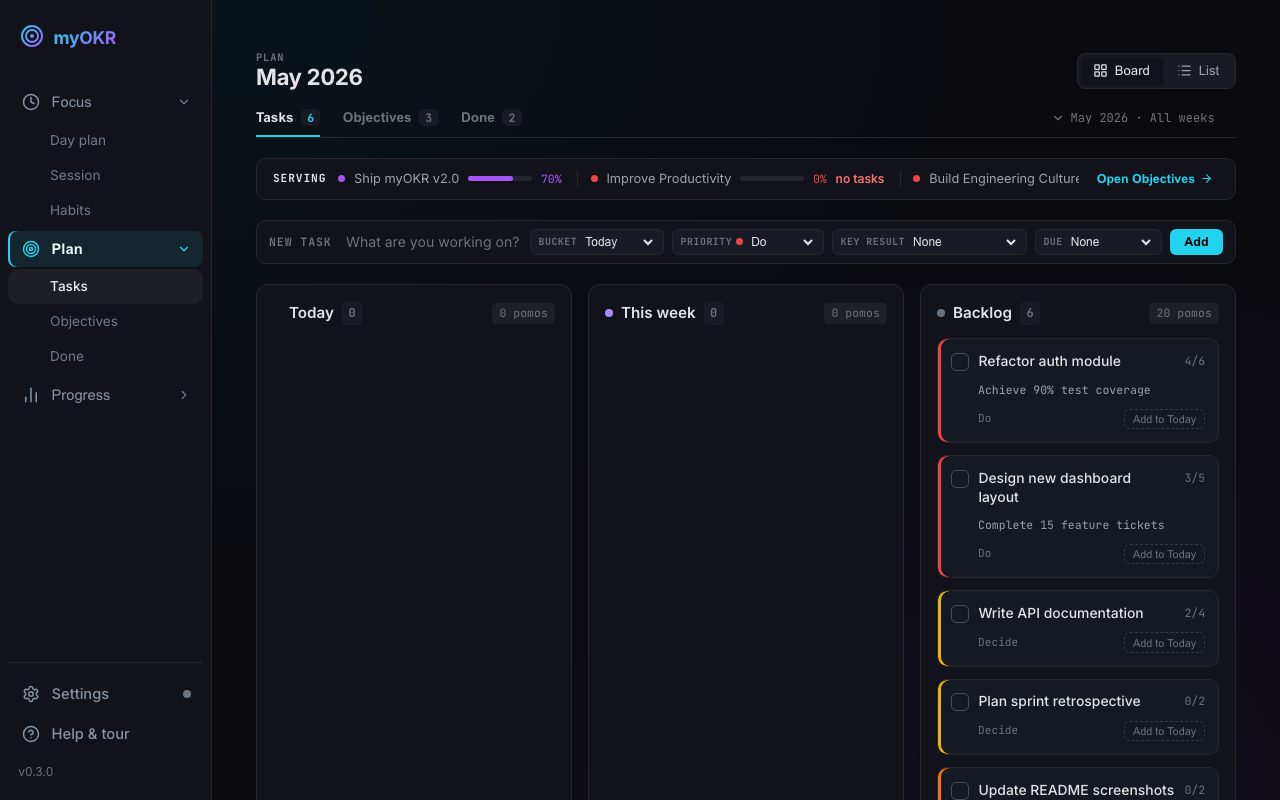
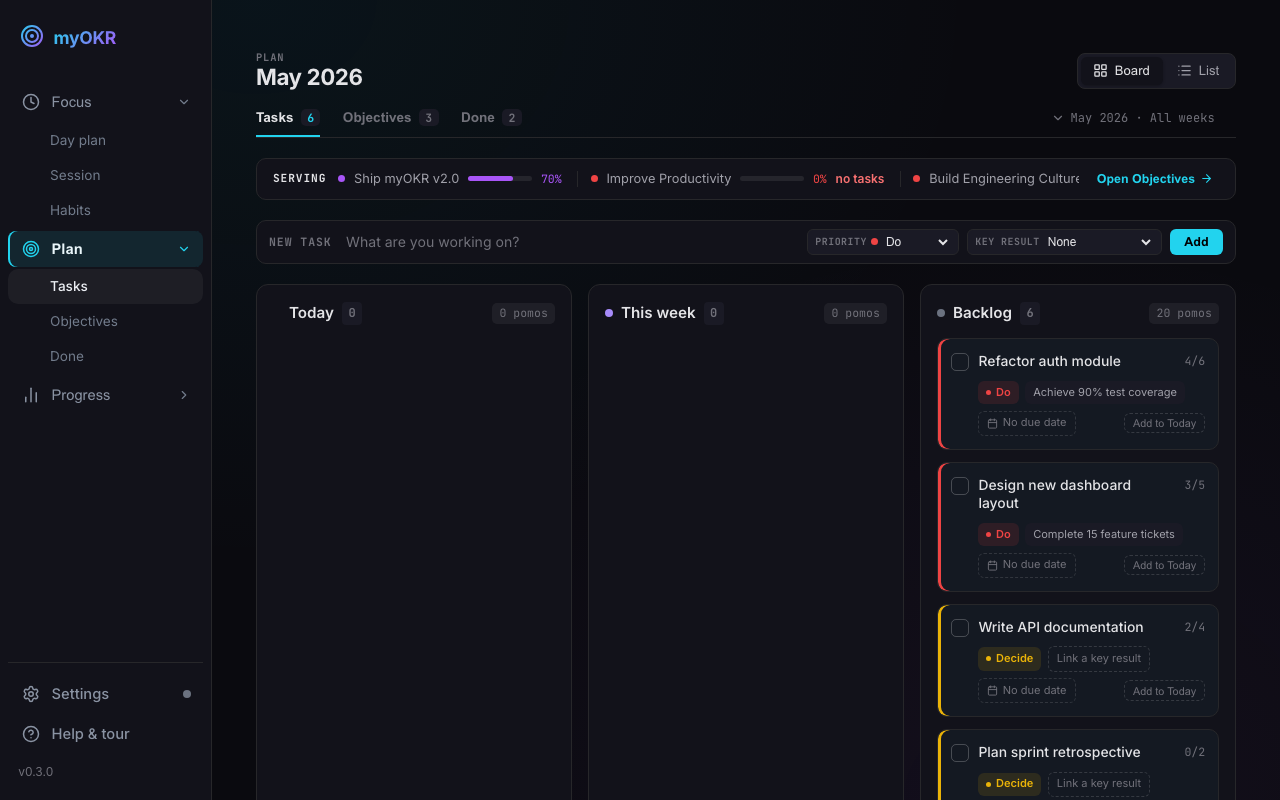
fix padding and task style

diff --git a/tests/plan-group-board-bugs.spec.ts b/tests/plan-group-board-bugs.spec.ts
@@ -1,0 +1,120 @@
+import { test, expect } from '@playwright/test';
+
+const FIXED = '2026-05-24T12:00:00.000Z';
+
+// Board-level UI bugs found while shooting the Tasks (P1) screen against the
+// redesign mockup. Each test is a tracer bullet for one bug; see the matching
+// slice in src/components/pomodoro/TasksView.tsx + src/styles/pomodoro.css.
+test.describe('Plan Group Board — bug fixes', () => {
+  test.beforeEach(async ({ page }) => {
+    await page.clock.setFixedTime(new Date(FIXED));
+    await page.addInitScript(() => {
+      window.localStorage.setItem('myokr_walkthrough_state', '"seen"');
+    });
+    await page.goto('/');
+    await page.waitForLoadState('networkidle');
+    await page.locator('button[title="Plan"]').click();
+  });
+
+  // Bug 1: the quick-add row was cramped by FOUR dropdowns (Bucket, Priority,
+  // Key Result, Due), squeezing the title input. The P1 spec keeps only
+  // Priority + Key Result in the row ("no bucket select, no due date"), and new
+  // tasks land in Backlog (the storage default).
+  test('quick-add row has only Priority + Key Result, and new tasks land in Backlog', async ({ page }) => {
+    const bar = page.locator('.quick-add-bar');
+    await expect(bar).toBeVisible();
+
+    // Priority + Key Result selectors stay in the row.
+    await expect(bar.locator('.quick-add-field-label', { hasText: 'PRIORITY' })).toBeVisible();
+    await expect(bar.locator('.quick-add-field-label', { hasText: 'KEY RESULT' })).toBeVisible();
+
+    // Bucket + Due selectors are removed from the row.
+    await expect(bar.locator('.quick-add-field-label', { hasText: 'BUCKET' })).toHaveCount(0);
+    await expect(bar.locator('.quick-add-field-label', { hasText: 'DUE' })).toHaveCount(0);
+
+    // Submitting the trimmed form creates a task that lands in Backlog, not Today.
+    const input = page.locator('input[placeholder*="What are you working on?"]');
+    await input.fill('Backlog landing task');
+    await page.locator('button.quick-add-btn').click();
+
+    await expect(page.locator('.column-backlog').locator('text=Backlog landing task')).toBeVisible();
+    await expect(page.locator('.column-today').locator('text=Backlog landing task')).toHaveCount(0);
+  });
+
+  // Bug 2: a long, non-wrapping KR line inflated the Today column because the
+  // board grid used bare `1fr` tracks (= minmax(auto,1fr)) and the card had no
+  // min-width:0. With a bounded track the KR ellipsizes and all three columns
+  // share the width equally. (See docs/design-system.md minmax(0,…) callout.)
+  test('a long KR does not make its bucket column wider than the others', async ({ page }) => {
+    await page.evaluate(async () => {
+      const okr = await import('/src/lib/okr-storage.ts');
+      const pomo = await import('/src/lib/pomodoro-storage.ts');
+      const cycle = { id: 'c1', name: 'May cycle', month: 4, year: 2026, isActive: true, createdAt: '2026-05-01T00:00:00Z' };
+      const obj = { id: 'o1', cycleId: 'c1', title: 'Growth', category: 'work', createdAt: '2026-05-01T00:00:00Z' };
+      const kr = { id: 'kr-long', objectiveId: 'o1', title: 'Grow weekly active users of the flagship dashboard by shipping the redesign', targetValue: 100, currentValue: 0, unit: '%' };
+      await okr.saveCycles([cycle]);
+      await okr.saveObjectives([obj]);
+      await okr.saveKeyResults([kr]);
+      await pomo.saveTasks([
+        { id: 't-today', title: 'Ship the redesign', bucket: 'today', keyResultId: 'kr-long', estimatedPomodoros: 2, completedPomodoros: 0, isCompleted: false, createdAt: '2026-05-24T10:00:00Z' },
+        { id: 't-week', title: 'Plan retro', bucket: 'this_week', estimatedPomodoros: 1, completedPomodoros: 0, isCompleted: false, createdAt: '2026-05-24T10:00:00Z' },
+        { id: 't-back', title: 'Sketch ideas', bucket: 'backlog', estimatedPomodoros: 1, completedPomodoros: 0, isCompleted: false, createdAt: '2026-05-24T10:00:00Z' },
+      ]);
+    });
+    await page.reload();
+    await page.waitForLoadState('networkidle');
+    await page.locator('button[title="Plan"]').click();
+
+    // Precondition: the long KR line is actually rendering on the Today card.
+    await expect(page.locator('.column-today .card-kr')).toBeVisible();
+
+    const today = await page.locator('.column-today').boundingBox();
+    const week = await page.locator('.column-this-week').boundingBox();
+    const back = await page.locator('.column-backlog').boundingBox();
+
+    const widths = [today!.width, week!.width, back!.width];
+    const spread = Math.max(...widths) - Math.min(...widths);
+    // Bounded tracks are equal modulo a pixel of sub-pixel rounding.
+    expect(spread).toBeLessThanOrEqual(2);
+  });
+
+  // Bug 3: the board card didn't match the mockup. The mockup renders the meta
+  // row as pills — a filled category pill with a colored dot, a "Link a key
+  // result" pill when no KR is linked, and a calendar-icon "No due date" pill
+  // when no due is set — instead of hiding KR/due when absent.
+  test('a bare card shows category dot-pill, Link-a-key-result, and No-due-date pills', async ({ page }) => {
+    await page.evaluate(async () => {
+      const okr = await import('/src/lib/okr-storage.ts');
+      const pomo = await import('/src/lib/pomodoro-storage.ts');
+      const cycle = { id: 'c1', name: 'May cycle', month: 4, year: 2026, isActive: true, createdAt: '2026-05-01T00:00:00Z' };
+      const obj = { id: 'o1', cycleId: 'c1', title: 'Growth', category: 'work', createdAt: '2026-05-01T00:00:00Z' };
+      await okr.saveCycles([cycle]);
+      await okr.saveObjectives([obj]);
+      await pomo.saveTasks([
+        // No keyResultId, no dueDate, category 'do' — the "empty" card state.
+        { id: 't-bare', title: 'Bare card task', bucket: 'today', category: 'do', estimatedPomodoros: 1, completedPomodoros: 0, isCompleted: false, createdAt: '2026-05-24T10:00:00Z' },
+      ]);
+    });
+    await page.reload();
+    await page.waitForLoadState('networkidle');
+    await page.locator('button[title="Plan"]').click();
+
+    const card = page.locator('.board-task-card').first();
+
+    // Category renders as a filled pill with a colored dot (was plain mono text).
+    const catPill = card.locator('.card-category');
+    await expect(catPill).toBeVisible();
+    await expect(catPill.locator('text=Do')).toBeVisible();
+    await expect(catPill.locator('.card-category-dot')).toBeVisible();
+
+    // No KR → "Link a key result" pill (was previously hidden entirely).
+    await expect(card.locator('.card-kr')).toBeVisible();
+    await expect(card.locator('text=Link a key result')).toBeVisible();
+
+    // No due → "No due date" pill with a calendar icon (was previously hidden).
+    const duePill = card.locator('.card-due');
+    await expect(duePill).toBeVisible();
+    await expect(duePill.locator('text=No due date')).toBeVisible();
+    await expect(duePill.locator('svg')).toBeVisible();
+  });
+});

diff --git a/src/components/pomodoro/TasksView.tsx b/src/components/pomodoro/TasksView.tsx
@@ -1,5 +1,5 @@
 import { useState, useMemo, useRef, type CSSProperties } from 'react';
-import { LayoutGrid, List, Plus, Search, CheckCircle2, RotateCcw, ArrowRight } from 'lucide-react';
+import { LayoutGrid, List, Plus, Search, CheckCircle2, RotateCcw, ArrowRight, Calendar } from 'lucide-react';
 import type { PomodoroTask, EisenhowerCategory, TaskBucket } from '../../lib/pomodoro-storage';
 import { generateId, EISENHOWER_META, TASK_BUCKETS, computeTaskImportance, isTaskInCycle, buildKrCycleMap } from '../../lib/pomodoro-storage';
 import { getEffectiveCurrentValue, type KeyResult, type OKRCycle, type Objective } from '../../lib/okr-storage';
@@ -65,12 +65,11 @@ export default function TasksView({
   // Responsive Backlog collapse (P2): expanded panel below the bar
   const [backlogOpen, setBacklogOpen] = useState(false);
 
-  // Quick Add Form (Redesign 09.00.16.png: Bucket, Priority, KR, Due)
+  // Quick Add Form (P1: only Priority + Key Result live in the row; new tasks
+  // land in Backlog — the storage default. No bucket select, no due date.)
   const [newTitle, setNewTitle] = useState('');
-  const [newBucket, setNewBucket] = useState<TaskBucket>('today');
   const [newCategory, setNewCategory] = useState<EisenhowerCategory>('do');
   const [newKrId, setNewKrId] = useState<string>('');
-  const [newDue, setNewDue] = useState<'none' | 'today' | 'tomorrow' | 'end_of_week'>('none');
   const quickAddRef = useRef<HTMLDivElement>(null);
 
   // Week filter state ('all' or week number)
@@ -161,29 +160,14 @@ export default function TasksView({
     e.preventDefault();
     if (!newTitle.trim()) return;
 
-    let dueDate: string | undefined = undefined;
-    const today = new Date();
-    if (newDue === 'today') {
-      dueDate = today.toISOString().slice(0, 10);
-    } else if (newDue === 'tomorrow') {
-      const tmr = new Date(today);
-      tmr.setDate(tmr.getDate() + 1);
-      dueDate = tmr.toISOString().slice(0, 10);
-    } else if (newDue === 'end_of_week') {
-      const eow = new Date(today);
-      const day = eow.getDay();
-      const diff = day === 0 ? 0 : 7 - day;
-      eow.setDate(eow.getDate() + diff);
-      dueDate = eow.toISOString().slice(0, 10);
-    }
-
     const newTask: PomodoroTask = {
       id: generateId(),
       title: newTitle.trim(),
       category: newCategory,
-      bucket: newBucket,
+      // P1: new tasks land in Backlog (the storage default); promote them to
+      // Today / This week via the card's "Add to <bucket>" action.
+      bucket: 'backlog',
       keyResultId: newKrId || undefined,
-      dueDate,
       estimatedPomodoros: 1,
       completedPomodoros: 0,
       isCompleted: false,
@@ -405,7 +389,7 @@ export default function TasksView({
         </div>
       )}
 
-      {/* Quick Add Bar (Redesign 09.00.16.png: Bucket, Priority, KR, Due, Add button) */}
+      {/* Quick Add Bar (P1: Priority + Key Result only; new tasks land in Backlog) */}
       <div ref={quickAddRef}>
         <form className="quick-add-bar" onSubmit={handleAddTask}>
           <span className="quick-add-eyebrow">NEW TASK</span>
@@ -417,19 +401,6 @@ export default function TasksView({
             value={newTitle}
             onChange={e => setNewTitle(e.target.value)}
           />
-
-          <div className="quick-add-field">
-            <span className="quick-add-field-label">BUCKET</span>
-            <select
-              className="quick-add-select"
-              value={newBucket}
-              onChange={e => setNewBucket(e.target.value as TaskBucket)}
-            >
-              <option value="today">Today</option>
-              <option value="this_week">This week</option>
-              <option value="backlog">Backlog</option>
-            </select>
-          </div>
 
           <div className="quick-add-field">
             <span className="quick-add-field-label">PRIORITY</span>
@@ -459,20 +430,6 @@ export default function TasksView({
               {keyResults.map(kr => (
                 <option key={kr.id} value={kr.id}>{kr.title}</option>
               ))}
-            </select>
-          </div>
-
-          <div className="quick-add-field">
-            <span className="quick-add-field-label">DUE</span>
-            <select
-              className="quick-add-select"
-              value={newDue}
-              onChange={e => setNewDue(e.target.value as any)}
-            >
-              <option value="none">None</option>
-              <option value="today">Today</option>
-              <option value="tomorrow">Tomorrow</option>
-              <option value="end_of_week">End of week</option>
             </select>
           </div>
 
@@ -863,11 +820,28 @@ function BoardTaskCard({
         </span>
       </div>
 
-      {linkedKr && <div className="card-kr">{linkedKr.title}</div>}
-
       <div className="card-meta-row">
-        {meta && <span className="card-category">{meta.label}</span>}
-        {due && <span className={`card-due${due.overdue ? ' overdue' : ''}`}>{due.label}</span>}
+        {meta && (
+          <span
+            className="card-category"
+            style={{ '--cat-color': meta.color, '--cat-bg': meta.bgColor } as CSSProperties}
+          >
+            <span className="card-category-dot" />
+            {meta.label}
+          </span>
+        )}
+
+        {/* KR pill: the linked KR title, or a dashed "Link a key result" prompt
+            when none is linked (matches the mockup — never blank). */}
+        <span className={`card-kr${linkedKr ? '' : ' is-empty'}`}>
+          {linkedKr ? linkedKr.title : 'Link a key result'}
+        </span>
+
+        {/* Due pill: the due label, or a dashed calendar "No due date" prompt. */}
+        <span className={`card-due${due ? '' : ' is-empty'}${due?.overdue ? ' overdue' : ''}`}>
+          <Calendar size={11} className="card-due-icon" />
+          {due ? due.label : 'No due date'}
+        </span>
 
         {/* Click-to-Move Bucket Menu (ADR-0010) */}
         <div className="card-move-wrapper" onClick={e => e.stopPropagation()}>

diff --git a/src/styles/pomodoro.css b/src/styles/pomodoro.css
@@ -2937,7 +2937,11 @@
 /* Board View Grid & Responsive Collapse */
 .board-view-grid {
   display: grid;
-  grid-template-columns: repeat(3, 1fr);
+  /* minmax(0,1fr), never bare 1fr: a bare 1fr track is minmax(auto,1fr), whose
+     auto minimum lets a long nowrap KR/objective line set the track's min-width
+     and blow one column (and the pane) past the viewport. See
+     docs/design-system.md minmax(0,…) callout. */
+  grid-template-columns: repeat(3, minmax(0, 1fr));
   gap: 1rem;
 }
 
@@ -3728,6 +3732,9 @@
   border: 1px solid var(--border-color);
   border-radius: 10px;
   box-shadow: inset 3px 0 0 var(--task-accent, #6b7280);
+  /* min-width:0 so a nowrap KR/category line can ellipsize inside a bounded
+     grid track instead of forcing the column wider. */
+  min-width: 0;
 }
 .card-top-row {
   display: flex;
@@ -3760,33 +3767,78 @@
   color: var(--text-muted);
   flex: none;
 }
-.card-kr {
-  font-family: var(--font-mono);
-  font-size: 0.72rem;
-  color: var(--text-secondary);
-  padding-left: 1.7rem;
-  overflow: hidden;
-  text-overflow: ellipsis;
-  white-space: nowrap;
-}
+/* --- P1 card meta pills (flagship: mockup-exact). Category = filled tint
+   pill with a colored dot; KR & due are pills, dashed when unset. --- */
 .card-meta-row {
   display: flex;
   align-items: center;
-  gap: 0.55rem;
-  padding-left: 1.7rem;
   flex-wrap: wrap;
+  gap: 0.4rem;
+  padding-left: 1.7rem; /* align under the title, past the tick */
 }
 .card-category {
-  font-family: var(--font-mono);
-  font-size: 0.7rem;
+  display: inline-flex;
+  align-items: center;
+  gap: 0.32rem;
+  padding: 0.18rem 0.5rem;
+  border-radius: 6px;
+  background: var(--cat-bg, transparent);
+  color: var(--cat-color, var(--text-secondary));
+  font-size: 0.69rem;
+  font-weight: 600;
+  flex: none;
+}
+.card-category-dot {
+  width: 5px;
+  height: 5px;
+  border-radius: 99px;
+  background: var(--cat-color, var(--text-muted));
+  flex: none;
+}
+.card-kr {
+  display: inline-flex;
+  align-items: center;
+  padding: 0.18rem 0.5rem;
+  border-radius: 6px;
+  background: var(--bg-tertiary);
+  color: var(--text-secondary);
+  font-size: 0.69rem;
+  /* truncate a long KR inside the bounded column track */
+  min-width: 0;
+  max-width: 100%;
+  overflow: hidden;
+  text-overflow: ellipsis;
+  white-space: nowrap;
+  flex: 0 1 auto;
+}
+.card-kr.is-empty {
+  background: transparent;
+  border: 1px dashed rgba(255, 255, 255, 0.14);
   color: var(--text-muted);
+  font-weight: 400;
+  flex: none;
 }
 .card-due {
-  font-family: var(--font-mono);
-  font-size: 0.7rem;
+  display: inline-flex;
+  align-items: center;
+  gap: 0.3rem;
+  padding: 0.18rem 0.5rem;
+  border-radius: 6px;
+  background: var(--bg-tertiary);
+  color: var(--text-secondary);
+  font-size: 0.69rem;
+  flex: none;
+}
+.card-due .card-due-icon { flex: none; }
+.card-due.is-empty {
+  background: transparent;
+  border: 1px dashed rgba(255, 255, 255, 0.12);
   color: var(--text-muted);
 }
-.card-due.overdue { color: var(--color-risk); }
+.card-due.overdue {
+  background: color-mix(in srgb, var(--color-risk) 16%, transparent);
+  color: var(--color-risk);
+}
 .card-move-wrapper { margin-left: auto; position: relative; }
 .card-move-btn {
   display: flex;
